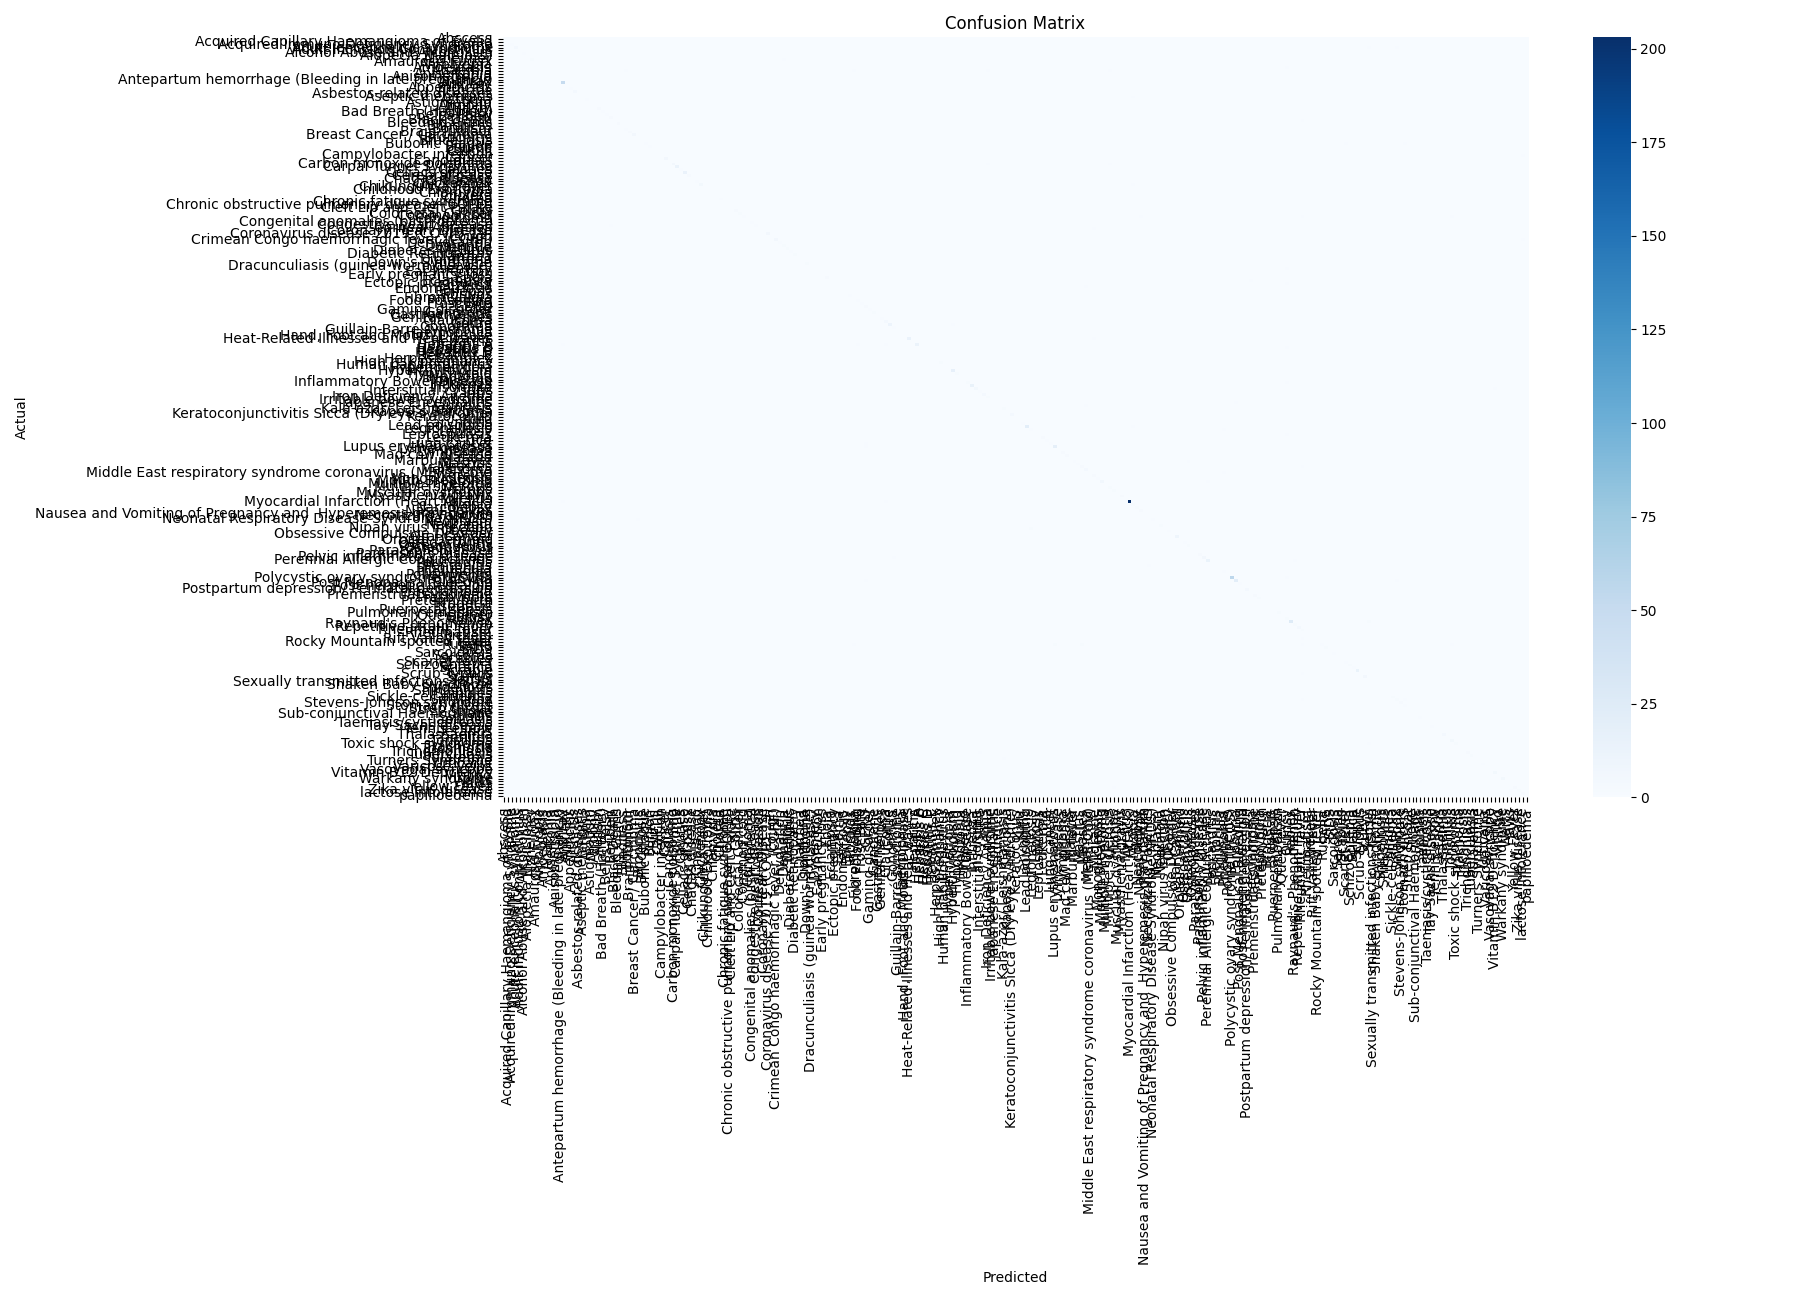
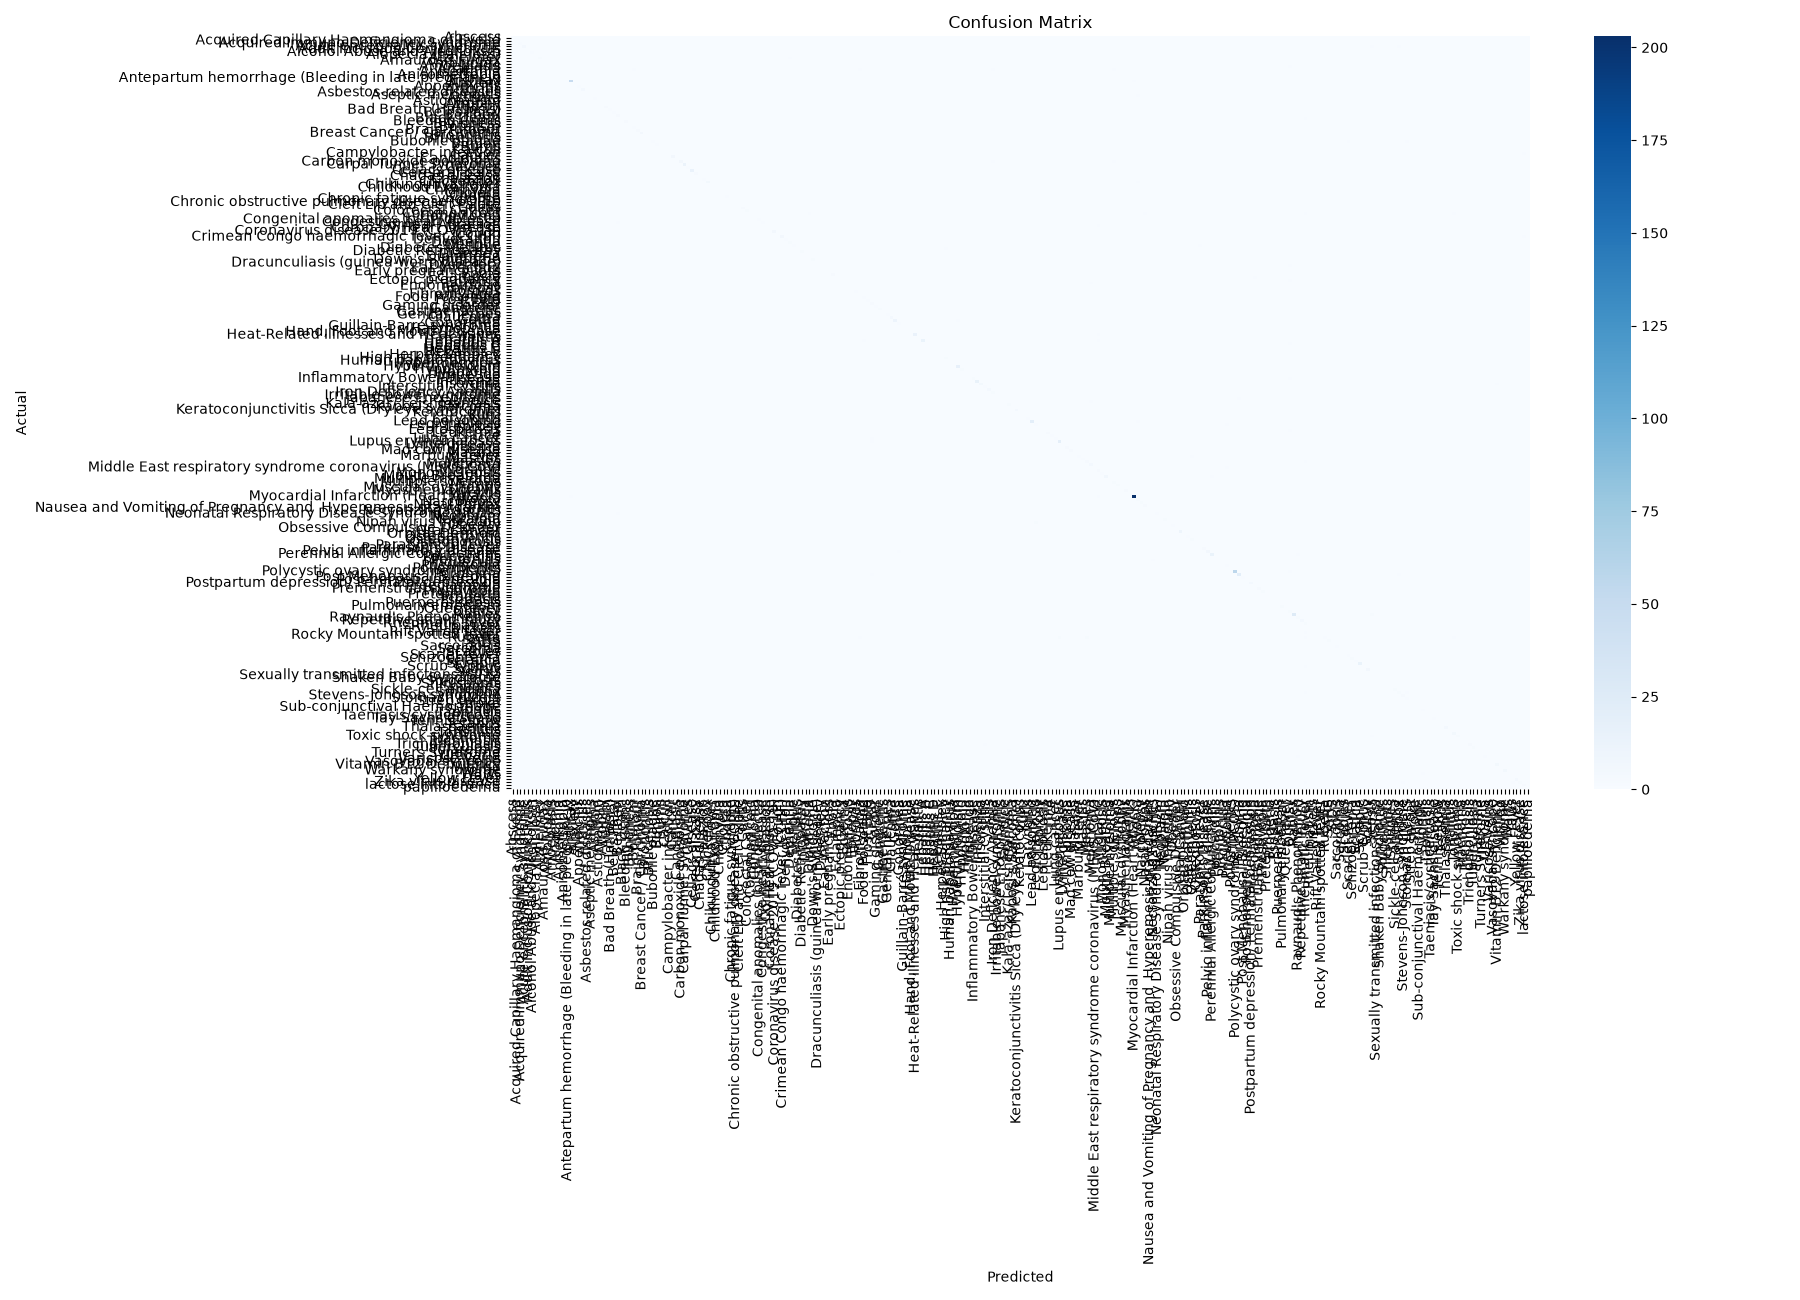
Fix dataset paths and update model evaluation

diff --git a/train_combine.py b/train_combine.py
@@ -15,12 +15,14 @@ from sklearn.metrics import accuracy_score, f1_score, classification_report, con
 from xgboost import XGBClassifier
 from lightgbm import LGBMClassifier
 
-print("Loading dataset...")
-df_comb = pd.read_csv(
-r"C:\Users\LENOVO\OneDrive\Desktop\dummy\Disease-Prediction\Dataset\dis_sym_dataset_comb.csv")
-df_norm = pd.read_csv(
-r"C:\Users\LENOVO\OneDrive\Desktop\dummy\Disease-Prediction\Dataset\dis_sym_dataset_norm.csv")
+from pathlib import Path
 
+print("Loading dataset...")
+BASE_DIR = Path(__file__).resolve().parent
+DATASET_DIR = BASE_DIR / "Dataset"
+
+df_comb = pd.read_csv(DATASET_DIR / "dis_sym_dataset_comb.csv")
+df_norm = pd.read_csv(DATASET_DIR / "dis_sym_dataset_norm.csv")
 
 # Split features & labels
 X = df_comb.iloc[:, 1:]
